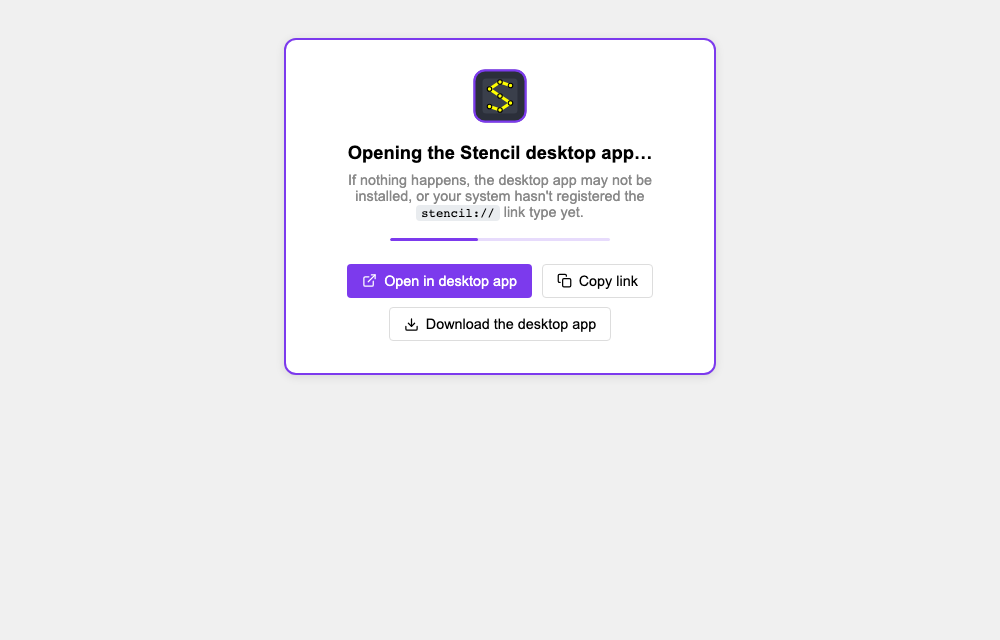
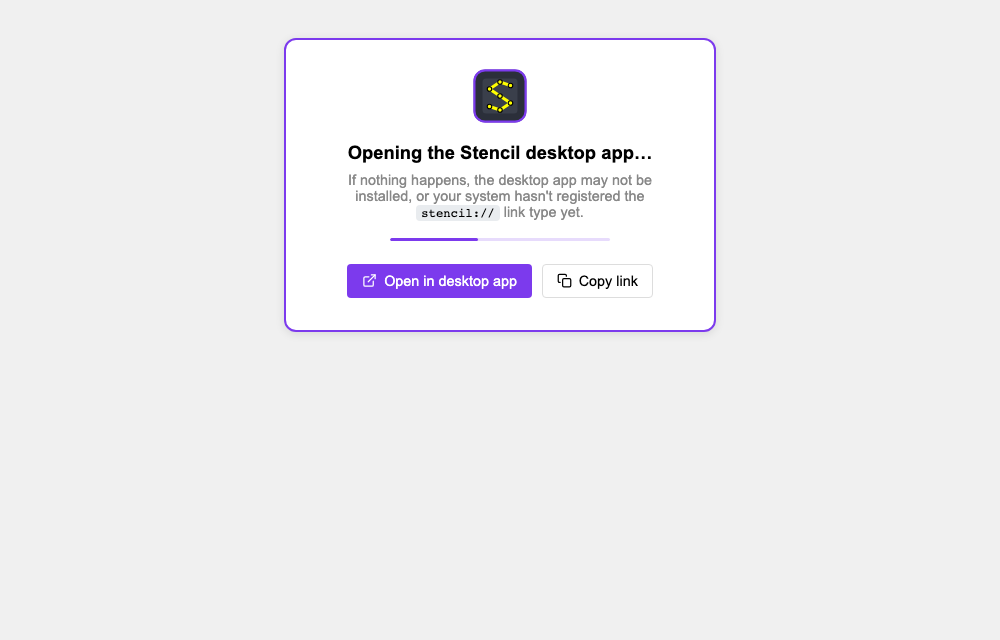
Drop the launch page's desktop download button

Changed region(s): [[0.279, 0.5, 0.713, 0.5312], [0.682, 0.5625, 0.713, 0.5938], [0.279, 0.5625, 0.31, 0.5938]]

diff --git a/browser/launch.html b/browser/launch.html
@@ -97,7 +97,7 @@
     .actions { display: flex; gap: .6rem; justify-content: center; margin-top: 1.4rem; flex-wrap: wrap; }
     /* The glass sweep is the editor's OWN: layout.css animates ui-shimmer on
        `button:hover::after`, and the anchors opt into the same rule through its
-       `.shimmer` hook — so all three behave identically, and at the app's timing.
+       `.shimmer` hook — so both behave identically, and at the app's timing.
        (A second, local sweep on top of it played the shine twice — user report.)
        The ::after is absolute + inset:0, so each host must be a positioned, clipping box. */
     a.btn, button.btn {
@@ -115,7 +115,7 @@
     a.btn:active, button.btn:active { transform: translateY(1px); }
     /* Each glyph mimes its own action on hover — the shared per-icon transforms in
        animations/icon/hover.css, keyed off --ic-on. Its trigger lists `button` but not `a`, so the
-       two links turn the switch on themselves. */
+       link turns the switch on itself. */
     a.btn:hover :is(.ic, .ic *) { --ic-on: 1; animation-name: var(--ic-play, none); }
     .ic { flex: 0 0 auto; }
     a.btn.primary {
@@ -162,8 +162,6 @@
     <div class="actions">
       <a id="open-btn" class="btn primary shimmer" hidden><svg class="ic ic-external" viewBox="0 0 24 24" width="15" height="15" fill="none" stroke="currentColor" stroke-width="2" stroke-linecap="round" stroke-linejoin="round" aria-hidden="true" focusable="false"><path d="M18 13v6a2 2 0 0 1-2 2H5a2 2 0 0 1-2-2V8a2 2 0 0 1 2-2h6"/><g class="ic-arrow"><polyline points="15 3 21 3 21 9"/><line x1="10" y1="14" x2="21" y2="3"/></g></svg><span>Open in desktop app</span></a>
       <button id="copy-btn" class="btn" hidden><svg class="ic ic-copy" viewBox="0 0 24 24" width="15" height="15" fill="none" stroke="currentColor" stroke-width="2" stroke-linecap="round" stroke-linejoin="round" aria-hidden="true" focusable="false"><rect class="ic-front" x="9" y="9" width="13" height="13" rx="2"/><path class="ic-back" d="M5 15H4a2 2 0 0 1-2-2V4a2 2 0 0 1 2-2h9a2 2 0 0 1 2 2v1"/></svg><span>Copy link</span></button>
-      <a class="btn shimmer" href="https://github.com/andrew1407/stencil/releases/tag/stencil-desktop"
-         rel="noopener"><svg class="ic ic-download" viewBox="0 0 24 24" width="15" height="15" fill="none" stroke="currentColor" stroke-width="2" stroke-linecap="round" stroke-linejoin="round" aria-hidden="true" focusable="false"><path d="M21 15v4a2 2 0 0 1-2 2H5a2 2 0 0 1-2-2v-4"/><g class="ic-arrow"><polyline points="7 10 12 15 17 10"/><line x1="12" y1="15" x2="12" y2="3"/></g></svg><span>Download the desktop app</span></a>
     </div>
   </main>
   <script>

diff --git a/usecases/docs/browser/USECASES.md b/usecases/docs/browser/USECASES.md
@@ -153,7 +153,7 @@ the Projects search matches) and the image's source and resource links.
 
 **Open In…** (`Ctrl+Shift+E`) sends the current project to the desktop app or the Telegram
 bot. A link shared from a chat lands on the bounce page first, which forwards to the
-`stencil://` scheme the desktop app registers and offers the download when nothing answers.
+`stencil://` scheme the desktop app registers.
 
 ![the Open In window](img/open-in-modal.png)
 
